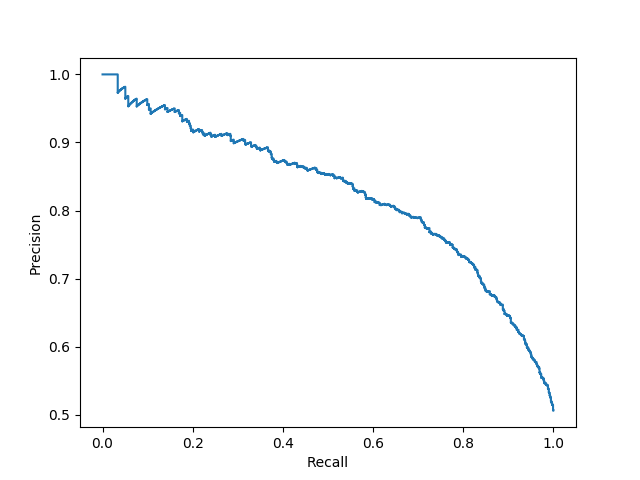
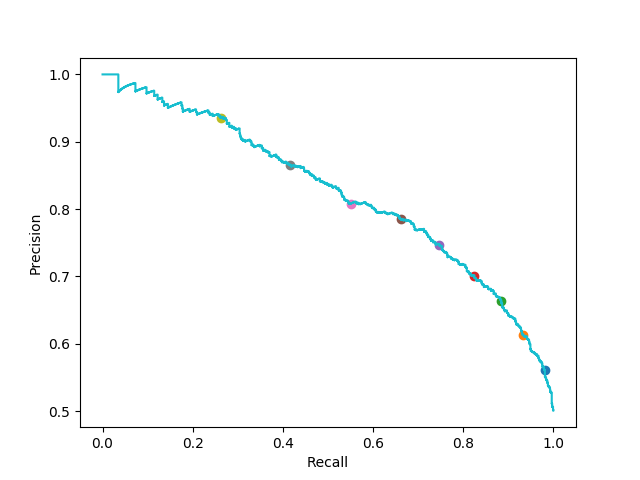
79の閾値プロット

diff --git a/ruby/8/79.rb b/ruby/8/79.rb
@@ -17,6 +17,13 @@ model = logreg(x_train, y_train)
 y_test_class = y_test.map(&:to_i)
 x_test_pred = model.predict_proba(x_test).tolist.to_a.map { |array| array[0] }
 precision, recall, threshold = *precision_recall_curve(y_test_class, x_test_pred)
+threshold = threshold.tolist.to_a
+
+0.1.step(0.9, 0.1).each do |plot_threshold|
+  t = threshold.find { |t| t >= plot_threshold }
+  i = threshold.index(t)
+  plt.plot(recall[i], precision[i], 'o')
+end
 
 plt.step(recall, precision, where: 'post')
 plt.xlabel('Recall')
